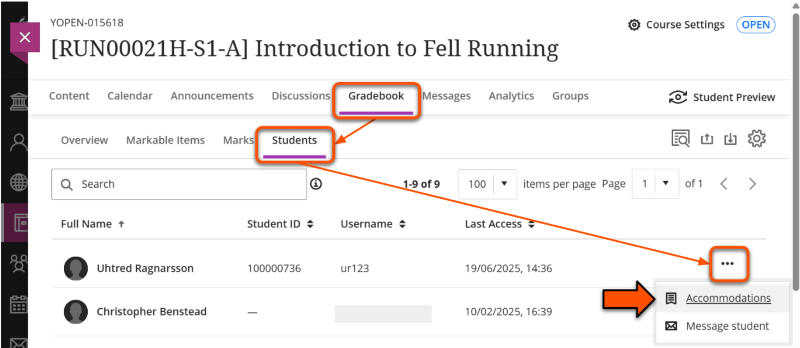
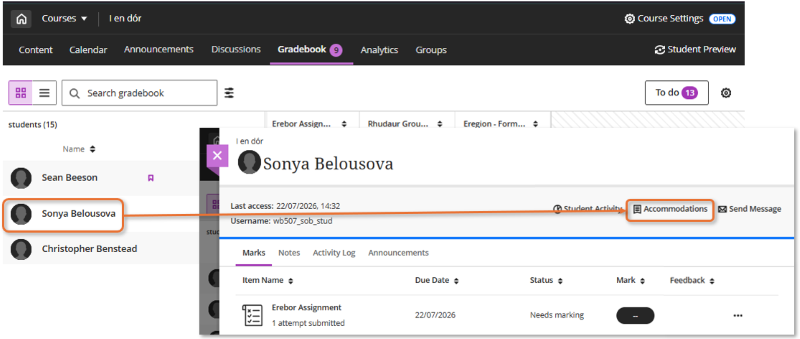
4002.1 - update Accommodations

diff --git a/docs/ultra/accommodations.md b/docs/ultra/accommodations.md
@@ -5,15 +5,17 @@ tags:
     - Ultra
 ---
 
-# Accommodations (SSP extensions)
+# Accommodations 
 
 !!! Summary
 
-    Set accommodations in a site to automatically apply SSP extensions to Test time limits.
+    Set accommodations in a site to apply SSP extra time or deadline extensions etc.
 
-Accommodations are adaptations to assessment settings for students with an SSP. Ultra offers two types of accommodation:
+## Course-level accommodations
 
-## Time limit accommodation
+These are general accommodations that apply across the site.
+
+### Time limit
 
 !!! Tip
 
@@ -30,14 +32,13 @@ The time limit accommodation extends the time allowed for timed assessments. For
 
 Time limit accommodations can be applied and updated while a student has in-progress Test attempts. The time limit will update immediately, but the student may need to refresh the page to display this correctly.
 
-To apply accommodations, Start by accessing the accommodations panel using your preferred method:
+There are multiple ways to access the *Accommodations panel*:
 
-- *Via the Gradebook*: open the Gradebook and select the **Students tab**. Locate the relevant student then click the **three dots icon** and select **Accommodations**.
+- *Via the Gradebook*: Click **Gradebook**. The Grid View is the default view, but can be selected specifically using the **Grid View icon** (small squares in a 2x2 block).
+</br>Click the relevant student's name to open the *Student overview panel* and click **Accommodations** in the menu bar (behind three dots icon on small screens).
 </br>![decorative](images/accommodations-via-gradebook.png)
 - *Via the Class Register*: on the main Content page and in the **Details & Actions** panel, click the **Class Register**. Locate the relevant student then click the **three dots icon** and select **Accommodations**.
 </br>![decorative](images/accommodations-via-register.png)
-- *Click the student's name*: this opens a summary of the student's activity. Click **Accommodations** in the menu bar to open the Accommodations panel.
-</br>![decorative](images/accommodations-via-student-page.png)
 
 <div markdown class="grid">
 <div markdown>
@@ -52,7 +53,7 @@ To set the relevant time limit extension:
 ![decorative](images/accommodations-timelimit-set.png)
 </div>
 
-## Due date accommodation
+### Due date
 
 !!! Warning
 
@@ -65,4 +66,25 @@ The due date accommodation means submissions are never marked as late. It does n
 **Do not apply this accommodation**. There are various methods to manage deadline extensions for SSPs and ECAs etc. Liaise with your departmental assessment administration team to set up the relevant method for your assessment.
 </div>
 ![Accommodations panel: Students with a time limit accommodation have more time to finish their work during timed assessments.](images/accommodations-duedate-intro.png)
+</div>
+
+## Assessment-level accommodations
+
+These are accommodations that apply only to specific assessment items.
+
+<div markdown class="grid">
+<div markdown>
+
+You can:
+
+- exempt the student from needing to submit.
+- add a personal extension to the main assessment due date.
+- provide a personal access window using *Access from* and/or *Access until* release conditions.
+- limit or extend the number of attempts the student is allowed to make for the assessment.
+
+Set these accommodations via the **Gradebook Grid View**. Click the relevant cell for that student and assessment to open the *Marks detail panel*, then open the **Accomodations** section and enter the settings.
+
+Any course-level accommodations for the student are also shown here, but can't be edited.
+</div>
+![decorative](images/gradebook-mark-details-panel-accommodations.png)
 </div>

diff --git a/docs/ultra/gradebook.md b/docs/ultra/gradebook.md
@@ -111,6 +111,7 @@ Click an item's title in the column header to open the *Assessment details* pane
 
 <div markdown class="grid">
 <div markdown>
+
 #### Navigation
 
 Use the **left/right arrows** to move between assessments.
@@ -164,6 +165,7 @@ Click on a cell to open the *Mark details* panel for a submission. This contains
 
 <div markdown class="grid">
 <div markdown>
+
 #### Navigation
 Use the **up/down arrows** to move between students within the same assessment and the **left/right arrows** to move between assessments for the same student.
 
@@ -185,6 +187,7 @@ After marking, the **Post individual mark** button becomes available; this relea
 
 <div markdown class="grid">
 <div markdown>
+
 #### Submission details
 
 This shows details of the student's submission and also a summary of the assessment marking settings:
@@ -199,6 +202,7 @@ This shows details of the student's submission and also a summary of the assessm
 
 <div markdown class="grid">
 <div markdown>
+
 #### Assessment feedback
 
 This shows any feedback given within the marking interface. This will be shown to students after marks are posted.
@@ -210,6 +214,7 @@ This shows *Overall feedback* and any specific *Attempt feedback* for multiple a
 
 <div markdown class="grid">
 <div markdown>
+
 #### Marker notes
 
 This is a ‘staff-eyes-only’ field and can be used similarly to feedback fields discussed above. This will **not** be shown to students after marks are posted.
@@ -221,6 +226,7 @@ Notes here may be useful for moderation purposes or in cases of academic miscond
 
 <div markdown class="grid">
 <div markdown>
+
 #### Accommodations
 
 This section is for setting assessment-specific accommodations for individual students. You can:
